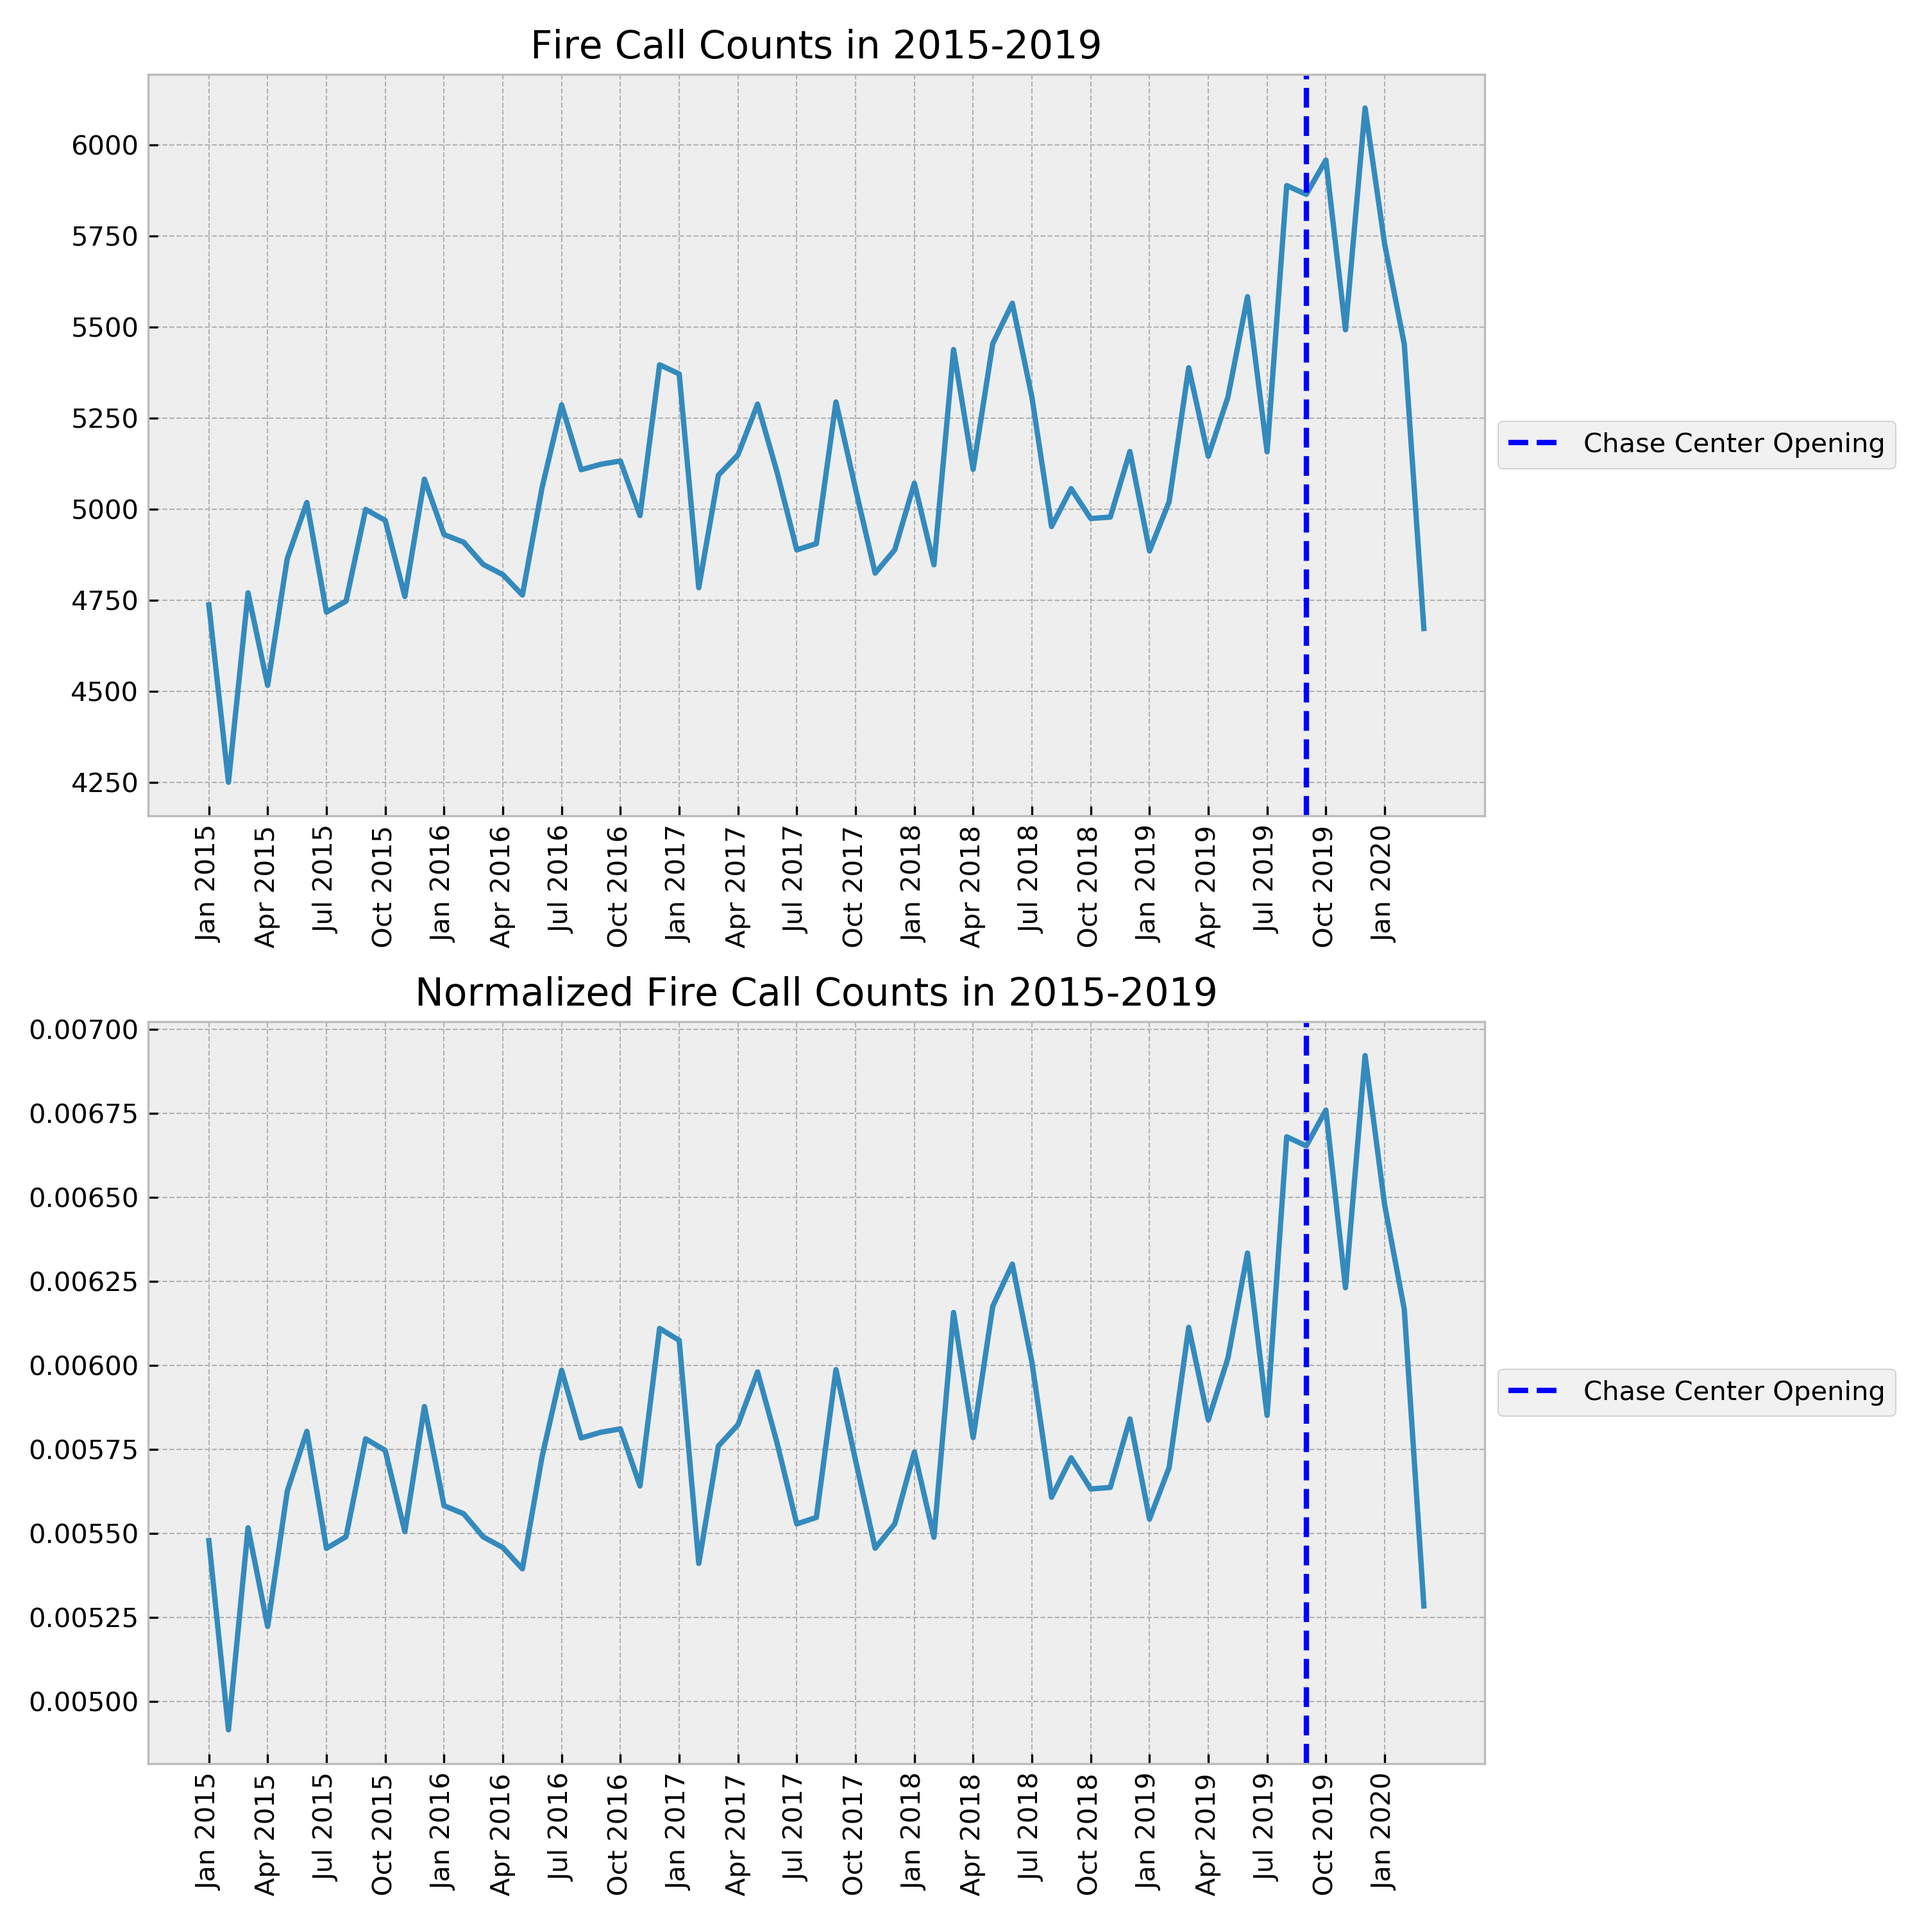
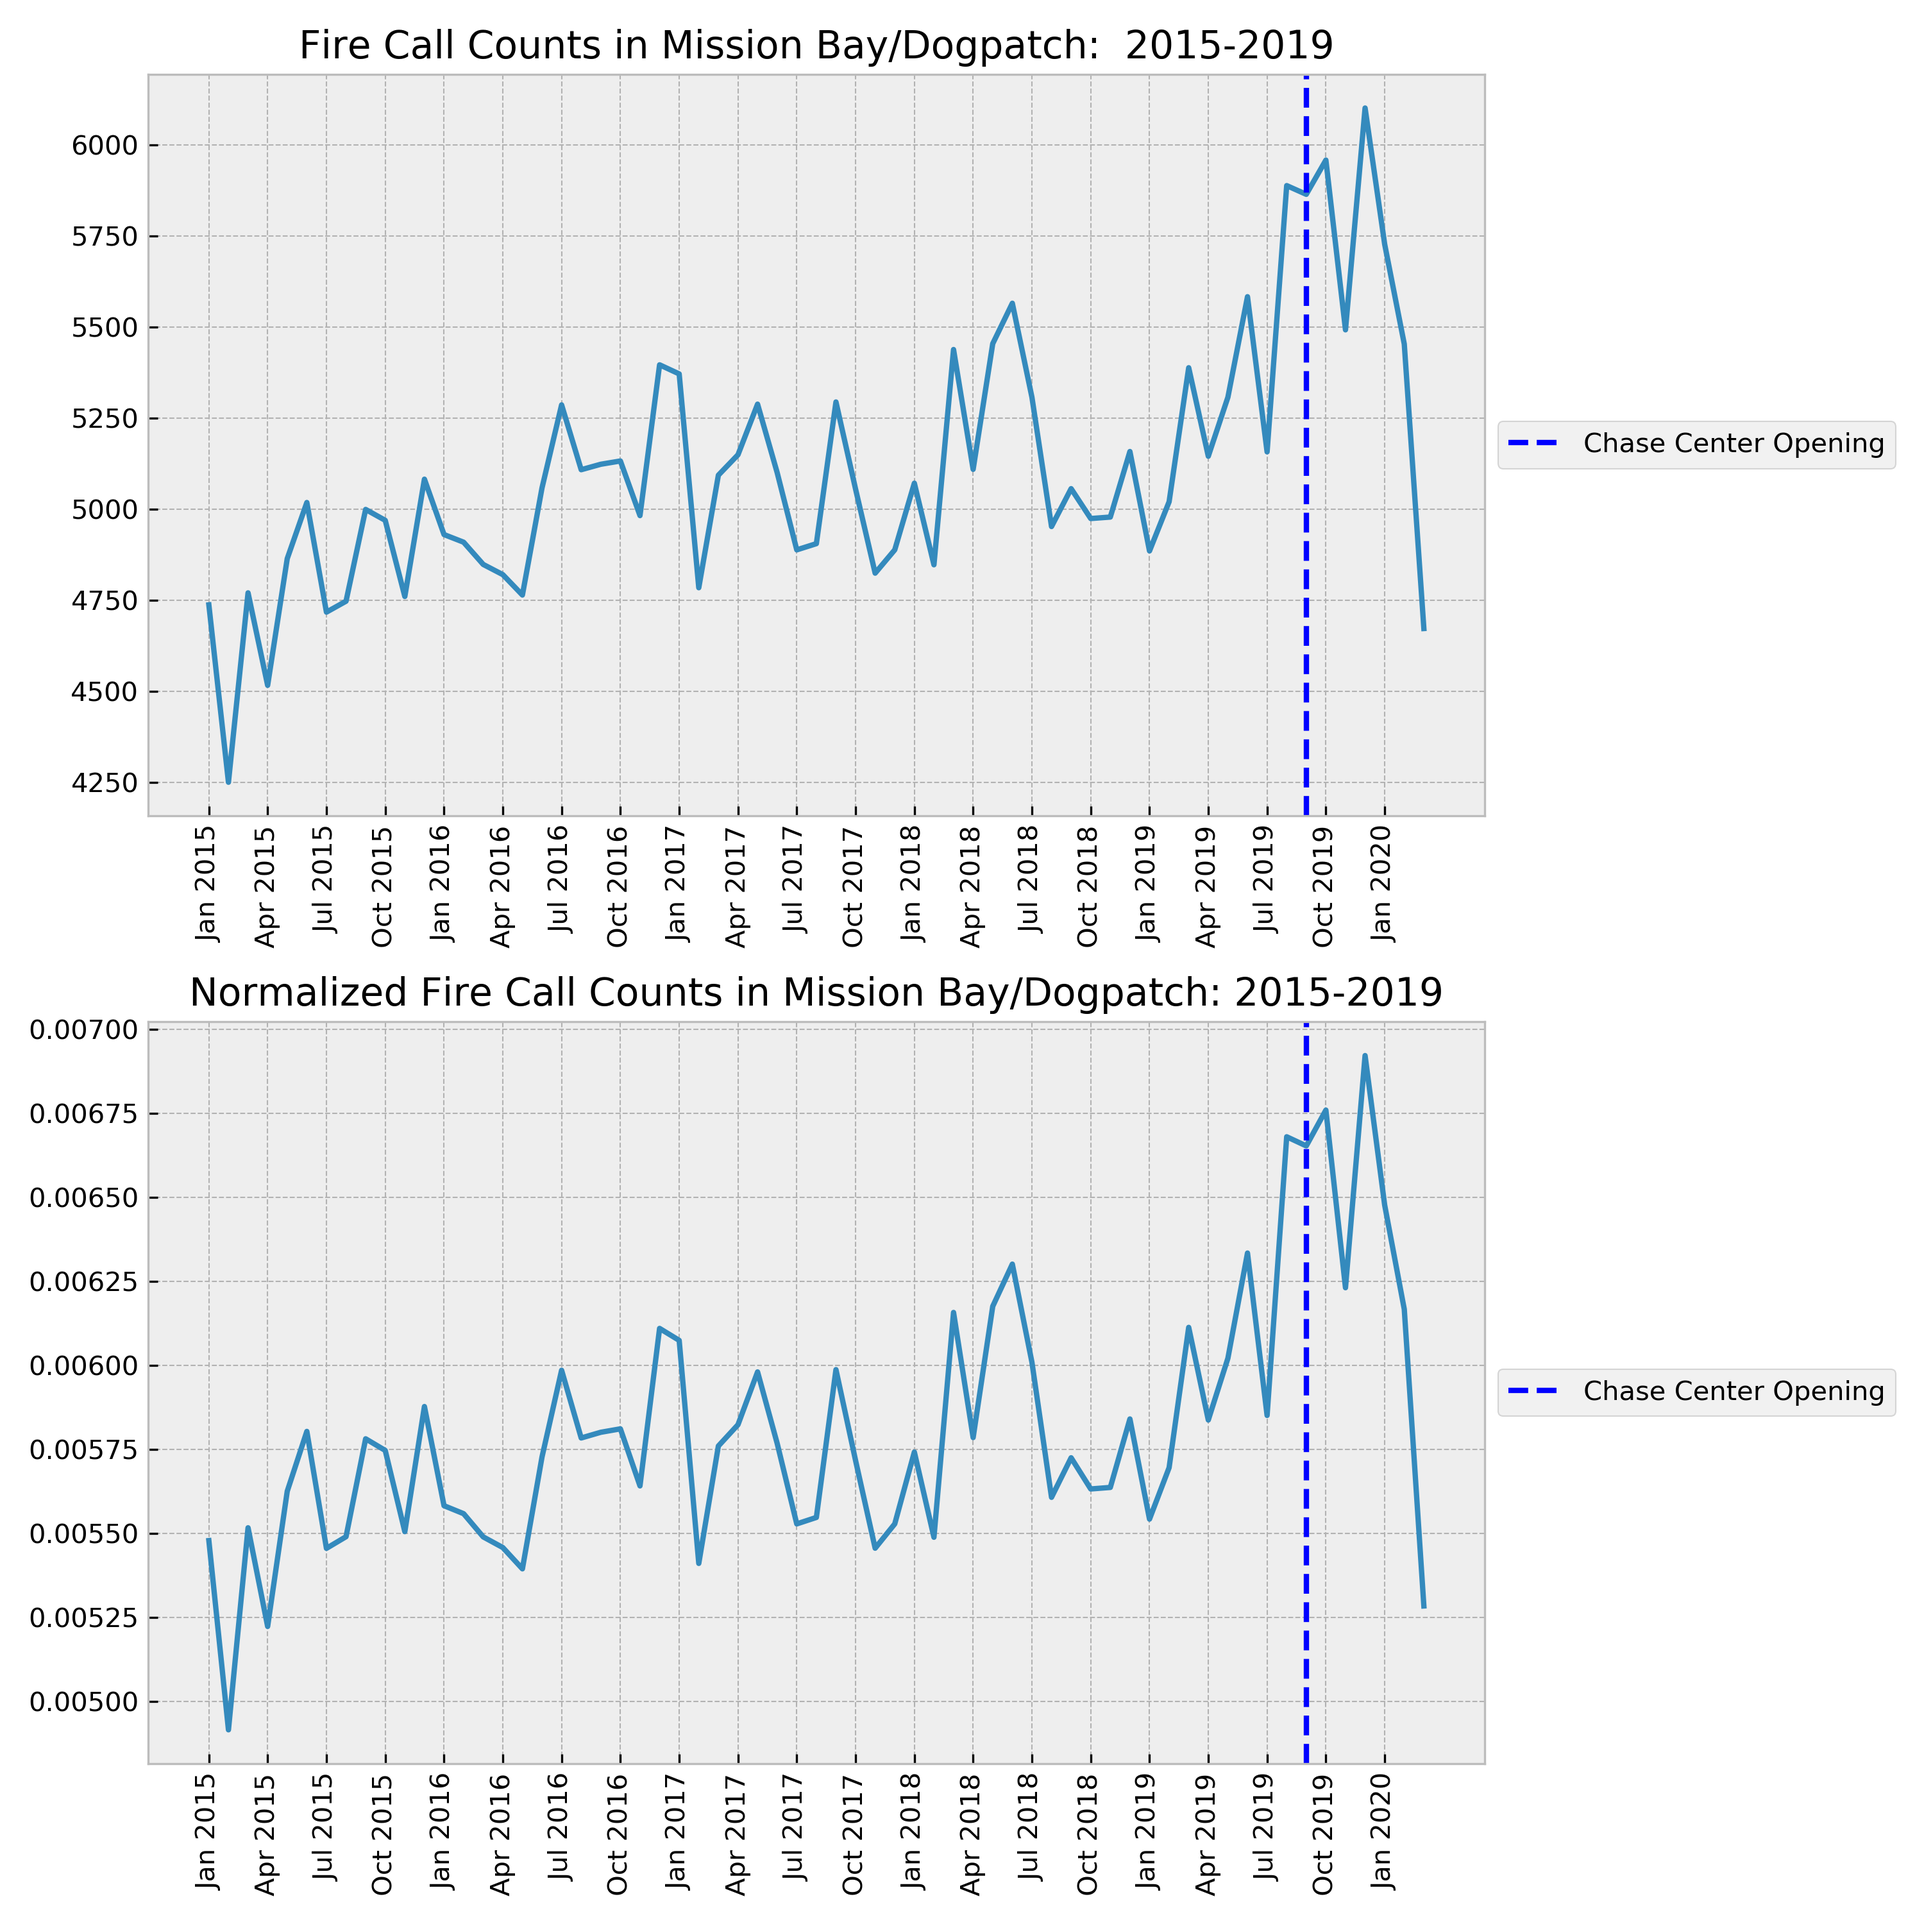
Updated title of graphs

Changed region(s): [[0.093, 0.496, 0.744, 0.527], [0.155, 0.0, 0.682, 0.031]]

diff --git a/README.md b/README.md
@@ -74,15 +74,6 @@ Below are the distributions prior to removing the outliers. 2 extreme outliers o
 <br>MannWhitneyU Test Result : pvalue = 0.02 -> Significant
 <br>T-Test Statistic & Distribution: pvalue = 0.0069 -> Significant
 ![image](https://github.com/sherryduong93/chasestadiumimpact/blob/working/Graphs/EventsVsNonHypotheisTest_Police.png)
-<br> **Looked into the week days of events versus non events in case the distribution of events was majority on weekends, which I hypothesize would have higher crime/fire calls in general. For the most part, Events were evenly spread out and only slightly biased towards Saturday & Thursday.**
-<br>Day of Week
-<br>Monday: 0.14
-<br>Tuesday: 0.12
-<br>Wednesday: 0.13
-<br>Thursday: 0.18
-<br>Friday: 0.13
-<br>Saturday: 0.20
-<br>Sunday: 0.08
 <br> 
 ### What about effects of Shelter In Place?
 **The data was captured from 9/6/2019 - 3/31/2020. Major Tech companies started having employees work from home around early March, and official Shelter In Place measures were enacted 3/19/2020. How did that impact calls/incidents?**
@@ -106,9 +97,18 @@ Below are the distributions prior to removing the outliers. 2 extreme outliers o
 
 ## Assumptions Made & Caveats....
 <br>Data was normalized using annual population for SF as a whole, not drilled down to zipcode.
-<br>The event dates were slightly biased with 20% of events on Saturdays as compared to 10-15% for the remaining days. Would have liked to understand the impact of weekdays and see if any difference.
+<br> **Looked into the week days of events versus non events in case the distribution of events was majority on weekends, which I hypothesize would have higher incidents/fire calls in general. Events were biased towards Saturdays with 25% of Events on Saturdays.**
+<br>Day of Week
+<br>Monday: 0.13
+<br>Tuesday: 0.12
+<br>Wednesday: 0.13
+<br>Thursday: 0.16
+<br>Friday: 0.12
+<br>Saturday: 0.26
+<br>Sunday: 0.09
 
 ## Maybe One Day.....
+<br>Look into Saturdays in particular to compare events versus non-events.
 <br>In terms of incidents or calls overall, would be interesting to look into:
 <br>-Time of day or day of week
 <br>-What exactly happened on 12/21/2019 & 1/11/2020 that drove both crime & fire so high? 
